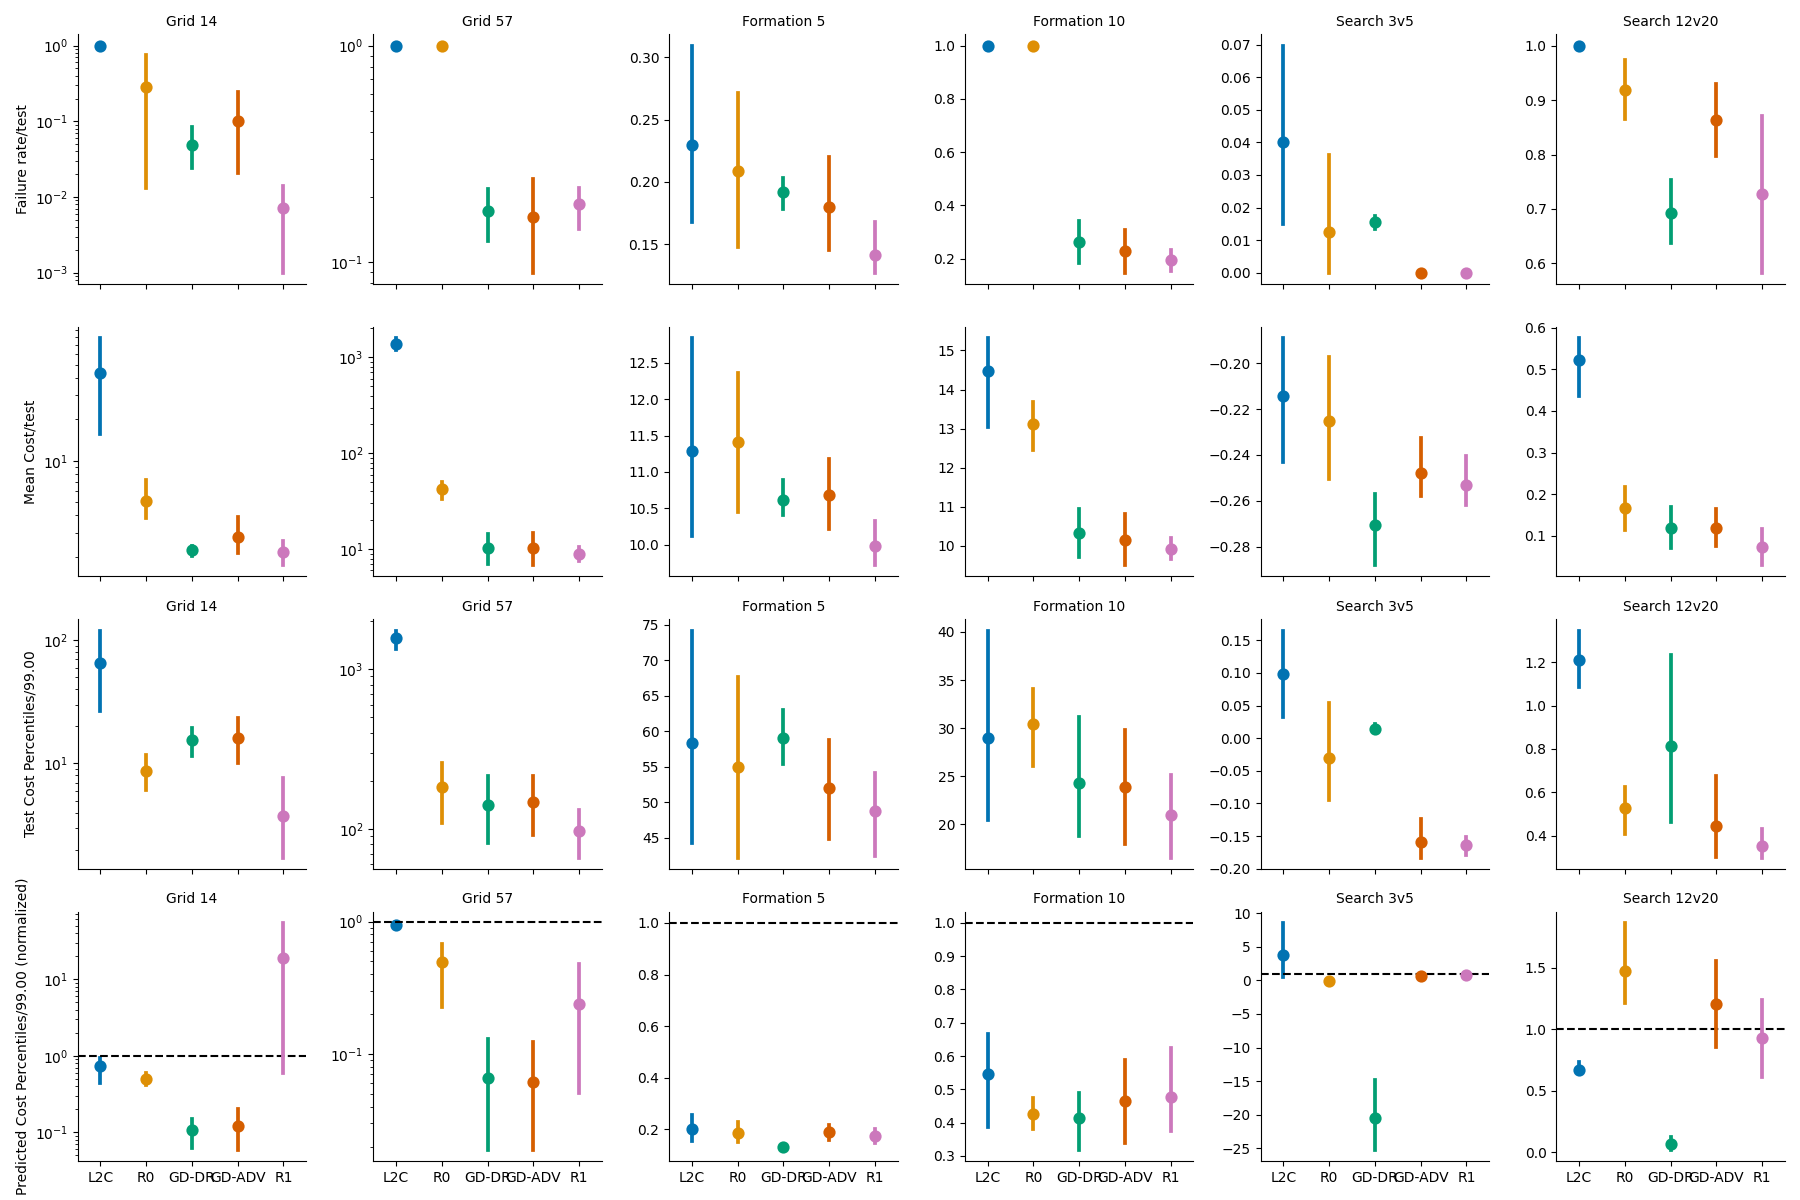
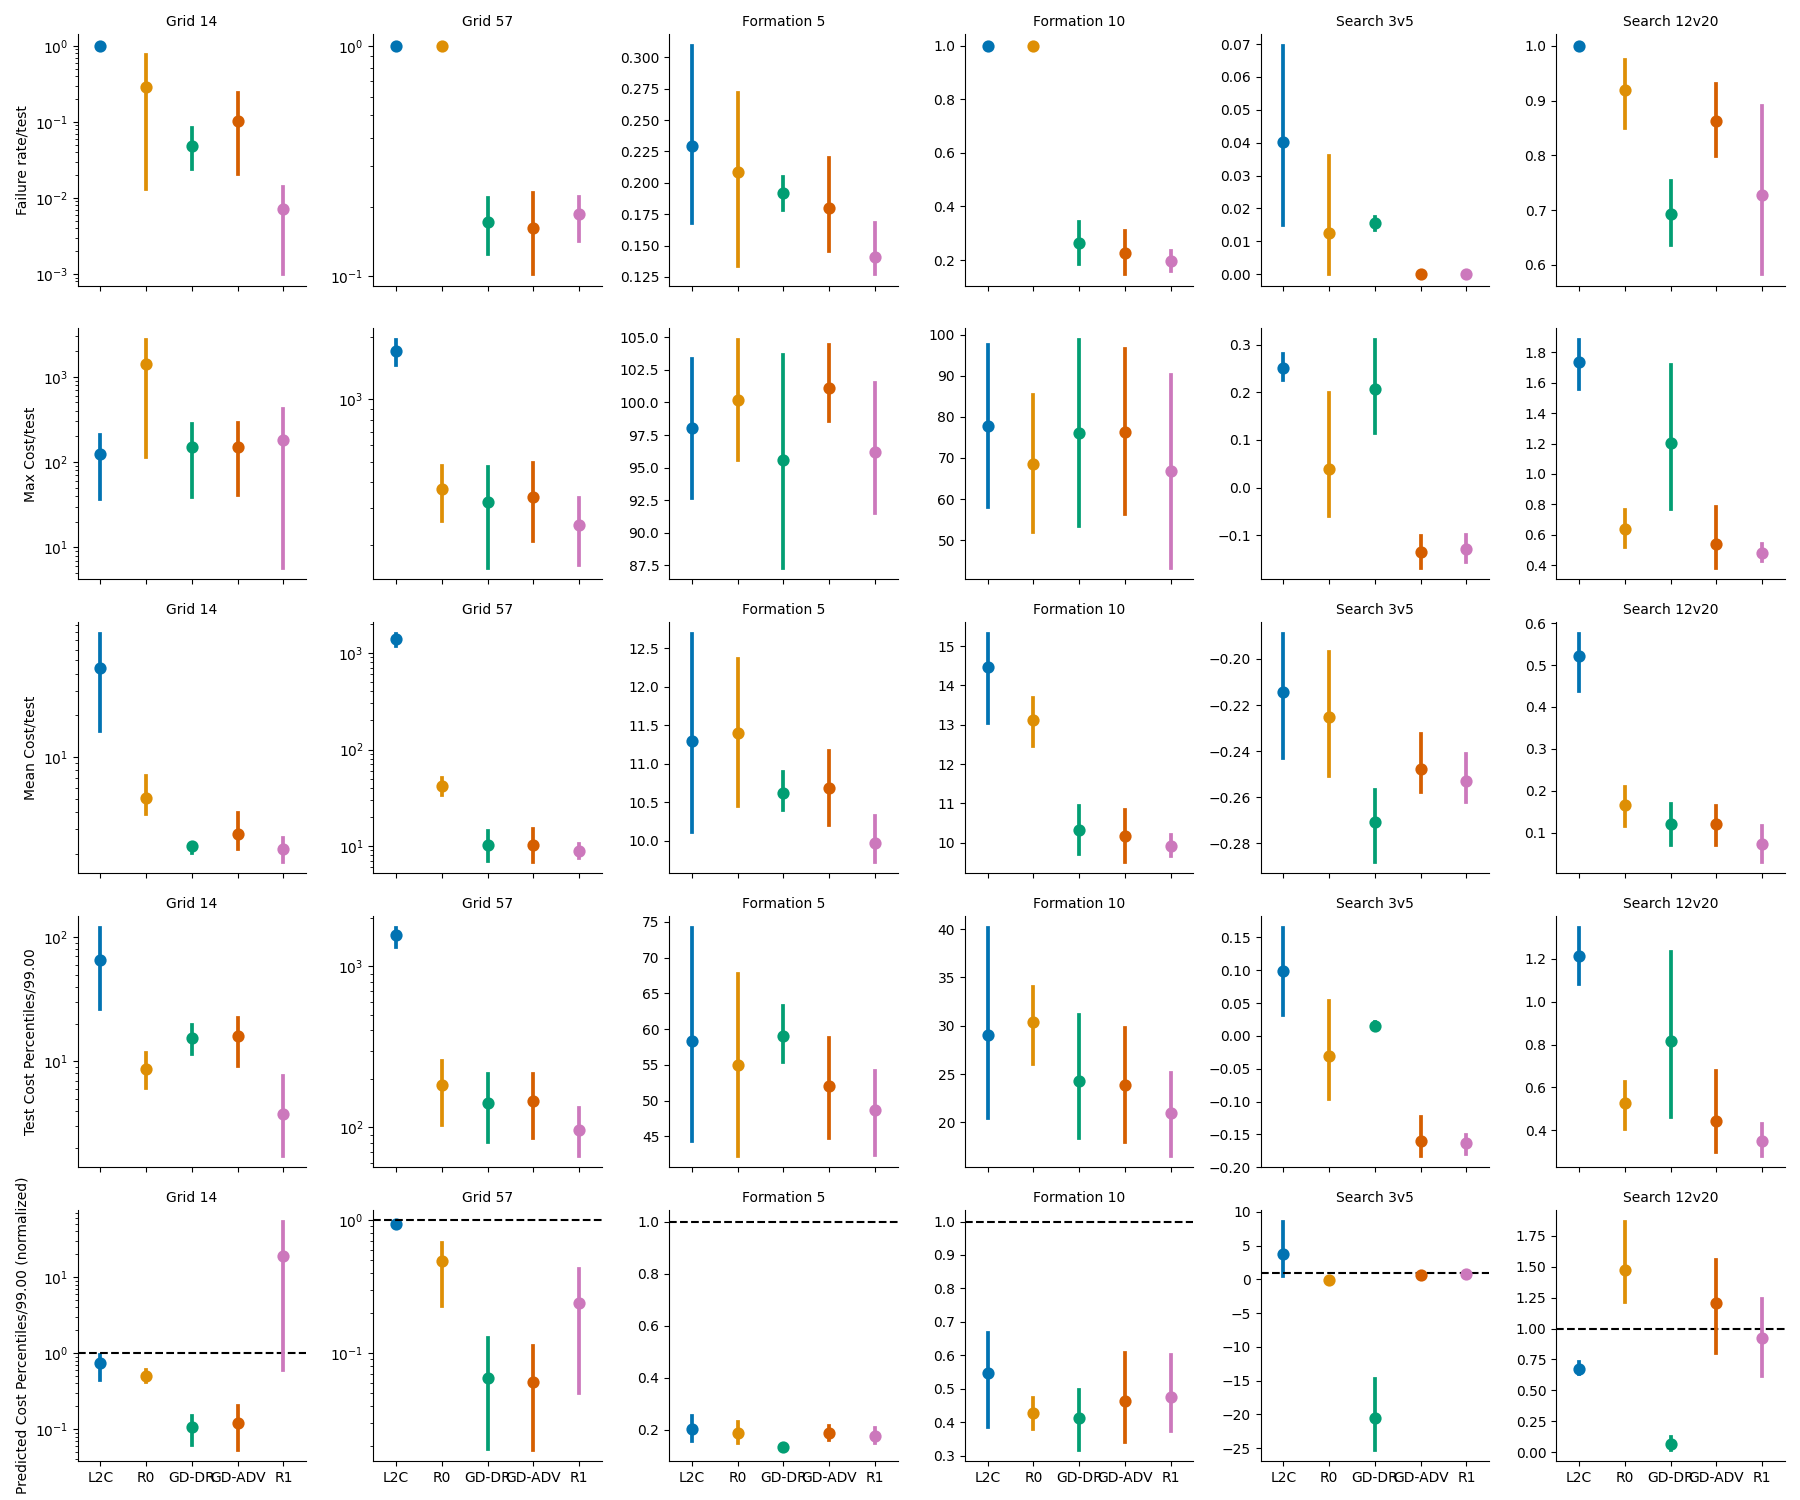
More experiments

diff --git a/architect/experiments/highway/repair_stress_test.py b/architect/experiments/highway/repair_stress_test.py
@@ -1,22 +1,19 @@
 """A script for analyzing the results of the repair experiments."""
+
 import json
 import os
 
 import equinox as eqx
 import jax
 import jax.numpy as jnp
-import matplotlib.pyplot as plt
-import numpy as np
 import pandas as pd
-import pyemd
-import scipy
-import seaborn as sns
 from jaxtyping import Array, Shaped
 from tqdm import tqdm
 
 from architect.experiments.highway.predict_and_mitigate import (
-    non_ego_actions_prior_logprob,
-    sample_non_ego_actions,
+    LinearTrajectory2D,
+    MultiAgentTrajectoryLinear,
+    sample_non_ego_trajectory,
     simulate,
 )
 from architect.experiments.highway.train_highway_agent import make_highway_env
@@ -31,24 +28,26 @@ REANALYZE = False
 lr = 1e-2
 lr = f"{lr:.1e}"
 # path to save summary data to in predict_repair folder
-SUMMARY_PATH = f"results/highway/predict_repair_1.0/stress_test_{lr}.json"
+SUMMARY_PATH = (
+    f"results/neurips_submission/highway/predict_repair_1.0/stress_test_{lr}.json"
+)
 # Define data sources from individual experiments
 SEEDS = [0, 1, 2, 3]
 DATA_SOURCES = {
     "mala_tempered": {
-        "path_prefix": f"results/highway/predict_repair_1.0/noise_5.0e-01/L_1.0e+01/25_samples/5_chains/0_quench/dp_{lr}/ep_{lr}/mala_20tempered+0.1",
+        "path_prefix": f"results/neurips_submission/highway/predict_repair_1.0/noise_5.0e-01/L_1.0e+01/25_samples/5_chains/0_quench/dp_{lr}/ep_{lr}/mala_20tempered+0.1",
         "display_name": "Ours (tempered)",
     },
     "rmh": {
-        "path_prefix": f"results/highway/predict_repair_1.0/noise_5.0e-01/L_1.0e+01/25_samples/5_chains/0_quench/dp_{lr}/ep_{lr}/rmh",
+        "path_prefix": f"results/neurips_submission/highway/predict_repair_1.0/noise_5.0e-01/L_1.0e+01/25_samples/5_chains/0_quench/dp_{lr}/ep_{lr}/rmh",
         "display_name": "ROCUS",
     },
     "gd": {
-        "path_prefix": f"results/highway/predict_repair_1.0/noise_5.0e-01/L_1.0e+00/25_samples/5_chains/0_quench/dp_{lr}/ep_{lr}/gd",
+        "path_prefix": f"results/neurips_submission/highway/predict_repair_1.0/noise_5.0e-01/L_1.0e+00/25_samples/5_chains/0_quench/dp_{lr}/ep_{lr}/gd",
         "display_name": "ML",
     },
     "reinforce": {
-        "path_prefix": f"results/highway/predict_repair_1.0/noise_5.0e-01/L_1.0e+00/25_samples/5_chains/0_quench/dp_{lr}/ep_{lr}/reinforce_l2c",
+        "path_prefix": f"results/neurips_submission/highway/predict_repair_1.0/noise_5.0e-01/L_1.0e+00/25_samples/5_chains/0_quench/dp_{lr}/ep_{lr}/reinforce_l2c",
         "display_name": "L2C",
     },
 }
@@ -122,12 +121,24 @@ def monte_carlo_test(N, batches, loaded_data, alg, seed):
     ).potential
     cost_fn = jax.jit(cost_fn)
 
-    sample_fn = lambda key: sample_non_ego_actions(
-        key,
-        env,
-        horizon=loaded_data[alg][seed]["T"],
-        n_non_ego=2,
-        noise_scale=0.5,
+    # The nominal non-ego behavior is to drive straight
+    drive_straight = LinearTrajectory2D(
+        p=jnp.array(
+            [
+                [10.0, 0.0],
+                [20.0, 0.0],
+                [30.0, 0.0],
+                [40.0, 0.0],
+                [50.0, 0.0],
+            ]
+        )
+    )
+    nominal_trajectory = MultiAgentTrajectoryLinear(
+        trajectories=[drive_straight, drive_straight]
+    )
+
+    sample_fn = lambda key: sample_non_ego_trajectory(
+        key, nominal_trajectory, noise_scale
     )
 
     # Sample N environmental parameters at random
@@ -172,9 +183,9 @@ if __name__ == "__main__":
             json.dump(
                 summary_data,
                 f,
-                default=lambda x: x.tolist()
-                if isinstance(x, Shaped[Array, "..."])
-                else x,
+                default=lambda x: (
+                    x.tolist() if isinstance(x, Shaped[Array, "..."]) else x
+                ),
             )
     else:
         # Load the data

diff --git a/architect/experiments/highway/predict_and_mitigate.py b/architect/experiments/highway/predict_and_mitigate.py
@@ -401,12 +401,12 @@ if __name__ == "__main__":
     parser.add_argument("--image_h", type=int, nargs="?", default=32)
     parser.add_argument("--noise_scale", type=float, nargs="?", default=1.0)
     parser.add_argument("--failure_level", type=int, nargs="?", default=7.5)
-    parser.add_argument("--T", type=int, nargs="?", default=50)
+    parser.add_argument("--T", type=int, nargs="?", default=60)
     parser.add_argument("--seed", type=int, nargs="?", default=0)
-    parser.add_argument("--L", type=float, nargs="?", default=5.0)
+    parser.add_argument("--L", type=float, nargs="?", default=1.0)
     parser.add_argument("--dp_logprior_scale", type=float, nargs="?", default=1.0)
-    parser.add_argument("--dp_mcmc_step_size", type=float, nargs="?", default=1e-2)
-    parser.add_argument("--ep_mcmc_step_size", type=float, nargs="?", default=1e-5)
+    parser.add_argument("--dp_mcmc_step_size", type=float, nargs="?", default=2e-5)
+    parser.add_argument("--ep_mcmc_step_size", type=float, nargs="?", default=1e-2)
     parser.add_argument("--num_rounds", type=int, nargs="?", default=10)
     parser.add_argument("--num_steps_per_round", type=int, nargs="?", default=10)
     parser.add_argument("--num_chains", type=int, nargs="?", default=5)
@@ -423,7 +423,7 @@ if __name__ == "__main__":
     parser.add_argument("--num_hmc_integration_steps", type=int, nargs="?", default=10)
     parser.add_argument("--predict", action=boolean_action, default=True)
     parser.add_argument("--temper", action=boolean_action, default=True)
-    parser.add_argument("--grad_clip", type=float, nargs="?", default=float("inf"))
+    parser.add_argument("--grad_clip", type=float, nargs="?", default=1.0)
     parser.add_argument("--dont_normalize_gradients", action="store_true")
     args = parser.parse_args()
 

diff --git a/architect/experiments/make_all_plots.py b/architect/experiments/make_all_plots.py
@@ -96,8 +96,8 @@ if __name__ == "__main__":
     # Define metrics of interest
     metrics = [
         "Failure rate/test",
-        "Mean Cost/test",
         "Test Cost Percentiles/99.00",
+        "Mean Cost/test",
         "Predicted Cost Percentiles/99.00",
     ]
 
